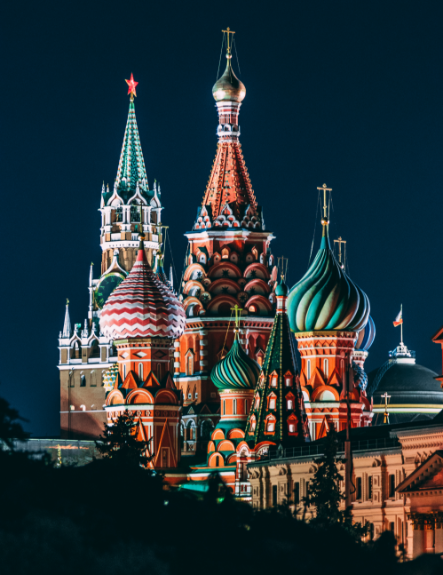
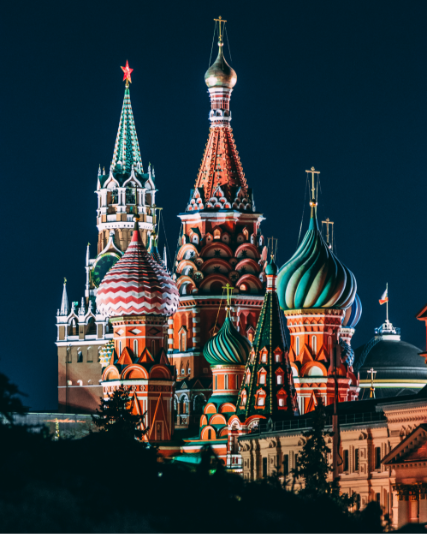
Added images and styling for the about page graphic

Changed region(s): [[0.0, 0.03, 1.0, 1.0], [0.6698, 0.2996, 0.7916, 0.5094], [0.9742, 0.5693, 1.0, 0.5993]]

diff --git a/src/about.html b/src/about.html
@@ -35,26 +35,24 @@
         <main>
             <section id="about">
                 <h1 class="tagline">The best rendition of the worlds most popular beverages. Period.  </h1>
-                <div class="graphic">
-                    <img alt="Barista Brewing" src="images/Barista_Brewing@2x.png"/>
-                    <img class="extra" alt="Barista Smiling" src="images/Barista_Smiling@2x.png"/>
-                    <p class="description">
-                        At TEACO, we blend high quality ingredients 
-                        with expert skill, to produce a coffee and tea
-                        experience like no other.
-                    </p>
+                <div class="graphic grid-container">
+                    <img class="portrait" alt="Barista Brewing" src="images/Barista_Brewing@2x.png"/>
+                    <img class="landscape" alt="Barista Smiling" src="images/Barista_Smiling@2x.png"/>
+                    <div class="description large">
+                        At TEACO, we blend high quality ingredients with expert skill, to produce a coffee and tea experience like no other.
+                    </div>
 
-                    <img alt="Paris 1920" src="images/Paris_1920@2x.png"/>
-                    <img class="extra" alt="Old Cafe" src="images/Old_Cafe@2x.png"/>
+                    <img class="landscape" alt="Paris 1920" src="images/Paris_1920@2x.png"/>
+                    <img class="portrait" alt="Old Cafe" src="images/Old_Cafe@2x.png"/>
                     <p class="description">
                         Founded in 1921, by retired French WW1 
                         wartime prime minster Georges Clemenceau,
                         TEACO was the French’s answer to the British
                         dominance in the coffee &amp; tea industry.
                     </p>
-                    
-                    <img class="extra" alt="Moscow" src="images/Moscow@2x.png.png"/>
-                    <img alt="Fancy Cafe" src="images/Fancy_Cafe@2x.png"/>
+
+                    <img class="portrait" alt="Moscow" src="images/Moscow@2x.png"/>
+                    <img class="landscape" alt="Fancy Cafe" src="images/Fancy_Cafe@2x.png"/>
                     <p class="description">
                         Now established with retail locations in 64 
                         countries, TEACO aims bring exemplary coffee 

diff --git a/src/css/about.css b/src/css/about.css
@@ -1,0 +1,57 @@
+/*
+ * css/about.css
+ * TEACO
+ * Teaco About Page Styles
+*/
+
+section#about {
+    display: inline-block;
+    width: 80vw;
+
+    text-align: left;
+}
+
+h1.tagline {
+    max-width: 72vw;
+    font-family: "Roboto", sans-serif;
+    font-weight: 700;
+    font-size: 6.4em;
+}
+
+.graphic.grid-container {
+    max-width: 74vw;
+    display: grid;
+    grid-template-columns: repeat(18, 1fr);
+    grid-template-rows: repeat(25, 5em);
+    grid-gap: 0.8em;
+}
+
+.graphic img {
+    object-fit: cover;
+    width: 100%;
+    max-height: 100%;
+}
+
+.graphic img.portrait {
+    grid-row: span 8;
+    grid-column: span 8;
+}
+
+.graphic img.landscape {
+    grid-row: span 6;
+    grid-column: span 10;
+}
+
+.graphic .description {
+    display: inline;
+    margin: 0;
+    grid-column: span 10;
+    grid-row: span 2;
+    font-family: "Roboto", sans-serif;
+    font-weight: 500;
+    font-size: 1.8em;
+}
+
+.graphic .description.large {
+    font-size: 2.2em;
+}
